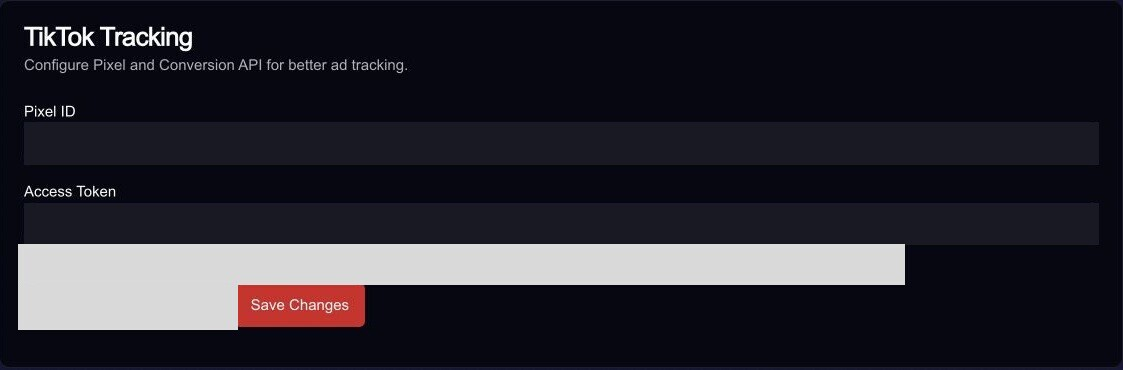
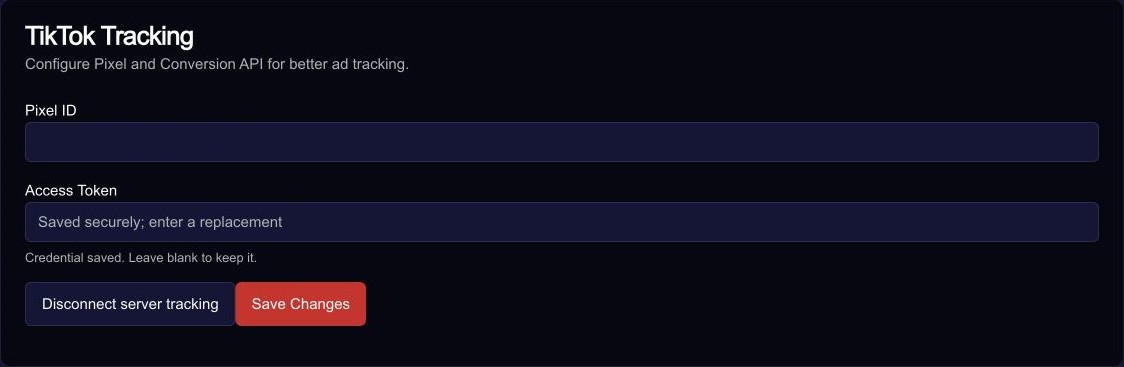
fix: address ad guide review feedback

diff --git a/apps/web/src/components/analytics/ad-platform-setup-guide.test.tsx b/apps/web/src/components/analytics/ad-platform-setup-guide.test.tsx
@@ -1,20 +1,27 @@
 import { createHash } from 'node:crypto';
 import { existsSync, readFileSync } from 'node:fs';
+import { resolve } from 'node:path';
 import { render, screen } from '@testing-library/react';
 import sharp from 'sharp';
 import { describe, expect, it } from 'vitest';
 import { AdPlatformSetupGuide } from './ad-platform-setup-guide';
 
-const reviewedAssetDigests: Record<string, string> = {
+// Digests detect changed binaries; they do not validate that a mask is present.
+const pinnedAssetDigests: Record<string, string> = {
   '/guides/ad-platforms/meta-settings.jpg':
[1 lines of base64/hex data omitted]
   '/guides/ad-platforms/tiktok-settings.jpg':
[2 lines of base64/hex data omitted]
   '/guides/ad-platforms/snapchat-pixel-settings.jpg':
[1 lines of base64/hex data omitted]
   '/guides/ad-platforms/x-connection-settings.jpg':
[2 lines of base64/hex data omitted]
 };
+const webRoot = resolve(__dirname, '../../../');
+const checklistPath = resolve(
+  webRoot,
+  '../../docs/guides/ad-tracking-screenshot-review.md'
+);
 
 describe('AdPlatformSetupGuide', () => {
   it.each([
@@ -67,13 +74,13 @@ describe('AdPlatformSetupGuide', () => {
         'Meta Pixel and Conversions API settings in Baci with identifiers masked',
       ],
       tiktok: [
-        'TikTok Pixel and Access Token settings in Baci with identifiers masked',
+        'TikTok Pixel and Access Token settings in Baci; the Pixel ID is masked and the token value is not shown',
       ],
       snapchat: [
         'Snapchat Pixel and optional Conversions API token fields in Baci; the Pixel ID is masked and the token field is empty',
       ],
       x: [
-        'X screenshot of the optional Conversions API access token and OAuth fields in Baci; inputs are blank',
+        'X screenshot of the optional server credential fields in Baci; all input values are blank',
       ],
     };
     const screenshots = screen.queryAllByRole('img');
@@ -83,13 +90,12 @@ describe('AdPlatformSetupGuide', () => {
     for (const screenshot of screenshots) {
       const src = screenshot.getAttribute('src');
       expect(src).toBeTruthy();
-      expect(existsSync(`public${src}`)).toBe(true);
+      const assetPath = resolve(webRoot, 'public', src?.slice(1) ?? '');
+      expect(existsSync(assetPath)).toBe(true);
       expect(
-        createHash('sha256')
-          .update(readFileSync(`public${src}`))
-          .digest('hex')
-      ).toBe(reviewedAssetDigests[src ?? '']);
-      const metadata = await sharp(`public${src}`).metadata();
+        createHash('sha256').update(readFileSync(assetPath)).digest('hex')
+      ).toBe(pinnedAssetDigests[src ?? '']);
+      const metadata = await sharp(assetPath).metadata();
       expect(metadata.width).toBe(Number(screenshot.getAttribute('width')));
       expect(metadata.height).toBe(Number(screenshot.getAttribute('height')));
     }
@@ -103,7 +109,7 @@ describe('AdPlatformSetupGuide', () => {
     if (platform === 'x') {
       expect(
         screen.getByText(
-          /This screenshot shows the optional server credential fields/
+          /This cropped screenshot starts at the optional server credential fields/
         )
       ).toBeInTheDocument();
     }
@@ -111,10 +117,21 @@ describe('AdPlatformSetupGuide', () => {
     expect(screen.getByText(/create.*Pixel.*or select/i)).toBeInTheDocument();
     const distinguishingSteps: Record<typeof platform, RegExp> = {
       facebook: /Pixel Settings → Generate Access Token/,
-      tiktok: /Pixel Settings → Generate Access Token/,
+      tiktok: /Tools → Events → Connect data source → Web/,
       snapchat: /Pixel Settings under Conversions API/,
       x: /all four OAuth credentials/,
     };
     expect(screen.getByText(distinguishingSteps[platform])).toBeInTheDocument();
+  });
+
+  it('keeps the human screenshot review checklist available beside digest pins', () => {
+    expect(existsSync(checklistPath)).toBe(true);
+    const checklist = readFileSync(checklistPath, 'utf8');
+    expect(checklist).toMatch(
+      /do not determine whether an\s+image is private/i
+    );
+    for (const imagePath of Object.keys(pinnedAssetDigests)) {
+      expect(checklist).toContain(imagePath.split('/').at(-1));
+    }
   });
 });

diff --git a/apps/web/src/app/dashboard/integrations/chatgpt-ads/setup-guide.test.tsx b/apps/web/src/app/dashboard/integrations/chatgpt-ads/setup-guide.test.tsx
@@ -1,10 +1,12 @@
 import { createHash } from 'node:crypto';
 import { existsSync, readFileSync } from 'node:fs';
+import { resolve } from 'node:path';
 import { render, screen } from '@testing-library/react';
 import { expect, it } from 'vitest';
 import { ChatgptSetupGuide } from './setup-guide';
 
-const reviewedImageDigests: Record<string, string> = {
+// Digests detect unreviewed binary changes; they do not validate that a mask is present.
+const pinnedImageDigests: Record<string, string> = {
   '01-pixel-setup.png':
[1 lines of base64/hex data omitted]
   '02-successful-payment.png':
@@ -18,6 +20,13 @@ const reviewedImageDigests: Record<string, string> = {
   '06-conversion-created.png':
[1 lines of base64/hex data omitted]
 };
+const webRoot = resolve(__dirname, '../../../../../');
+const repoRoot = resolve(__dirname, '../../../../../../../');
+const screenshotDocs = resolve(repoRoot, 'docs/guides/chatgpt-ads/screenshots');
+const screenshotChecklist = resolve(
+  repoRoot,
+  'docs/guides/ad-tracking-screenshot-review.md'
+);
 
 it('provides a safe example screen and warns merchants to use their own credentials', () => {
   render(<ChatgptSetupGuide />);
@@ -27,7 +36,13 @@ it('provides a safe example screen and warns merchants to use their own credenti
     )
   ).toBeInTheDocument();
   expect(
-    screen.getByText(/do not copy another store’s ID/)
+    screen.getByText(/do not copy another store’s ID/i)
+  ).toBeInTheDocument();
+  expect(
+    screen.getByText(/browser events do not require a server key/)
+  ).toBeInTheDocument();
+  expect(
+    screen.getByText(/successful-payment server events do/i)
   ).toBeInTheDocument();
   expect(
     screen.getByText(/Never share a screenshot of the generated key/)
@@ -51,29 +66,40 @@ it('provides a safe example screen and warns merchants to use their own credenti
     .getAllByRole('img')
     .map((image) => image.getAttribute('alt'));
   expect(new Set(imageAlts).size).toBe(imageAlts.length);
+  expect(
+    screen.getByRole('img', {
+      name: 'Example order_created browser Pixel event call',
+    })
+  ).toBeInTheDocument();
   for (const src of imagePaths) {
     expect(src).toBeTruthy();
-    const assetPath = `public${src}`;
+    const filename = src?.split('/').at(-1) ?? '';
+    const assetPath = resolve(webRoot, 'public', src?.slice(1) ?? '');
     expect(existsSync(assetPath)).toBe(true);
     const digest = createHash('sha256')
       .update(readFileSync(assetPath))
       .digest('hex');
-    const filename = src?.split('/').at(-1) ?? '';
-    expect(digest).toBe(reviewedImageDigests[filename]);
+    expect(digest).toBe(pinnedImageDigests[filename]);
     expect(
       createHash('sha256')
-        .update(
-          readFileSync(`../../docs/guides/chatgpt-ads/screenshots/${filename}`)
-        )
+        .update(readFileSync(resolve(screenshotDocs, filename)))
         .digest('hex')
     ).toBe(digest);
   }
-  const docsOnlyScreenshot =
-    '../../docs/guides/chatgpt-ads/screenshots/06-conversion-created.png';
+  const docsOnlyScreenshot = resolve(
+    screenshotDocs,
+    '06-conversion-created.png'
+  );
   expect(existsSync(docsOnlyScreenshot)).toBe(true);
   expect(
     createHash('sha256').update(readFileSync(docsOnlyScreenshot)).digest('hex')
-  ).toBe(reviewedImageDigests['06-conversion-created.png']);
+  ).toBe(pinnedImageDigests['06-conversion-created.png']);
+  expect(existsSync(screenshotChecklist)).toBe(true);
+  const checklist = readFileSync(screenshotChecklist, 'utf8');
+  expect(checklist).toMatch(/do not determine whether an\s+image is private/i);
+  for (const filename of Object.keys(pinnedImageDigests)) {
+    expect(checklist).toContain(filename);
+  }
   expect(
     screen.getByRole('link', {
       name: /Official conversion setup documentation/,

diff --git a/apps/web/src/components/analytics/ad-platform-setup-guide.tsx b/apps/web/src/components/analytics/ad-platform-setup-guide.tsx
@@ -52,13 +52,13 @@ const guides: Record<AdPlatform, Guide> = {
     screenshots: [
       {
         src: '/guides/ad-platforms/tiktok-settings.jpg',
-        alt: 'TikTok Pixel and Access Token settings in Baci with identifiers masked',
-        width: 1123,
-        height: 370,
+        alt: 'TikTok Pixel and Access Token settings in Baci; the Pixel ID is masked and the token value is not shown',
+        width: 1124,
+        height: 367,
       },
     ],
     steps: [
-      'In TikTok Ads Manager, open Assets → Events → Web Events and create a Pixel, or select the website Pixel for this store.',
+      'In TikTok Ads Manager, open Tools → Events → Connect data source → Web to create a Pixel, or select the website Pixel for this store.',
       'Copy the Pixel ID from its details. For server-side events, open Pixel Settings → Generate Access Token to create or retrieve the Events API access token; this is optional for browser-only tracking.',
       'Enter the Pixel ID and, if enabling server-side events, the token in this Baci page and save. Keep the token private and do not install a duplicate pixel script.',
       'Grant Marketing consent on your storefront, then verify browser and server events separately in TikTok Events Manager.',
@@ -90,9 +90,9 @@ const guides: Record<AdPlatform, Guide> = {
     screenshots: [
       {
         src: '/guides/ad-platforms/x-connection-settings.jpg',
-        alt: 'X screenshot of the optional Conversions API access token and OAuth fields in Baci; inputs are blank',
-        width: 1165,
-        height: 535,
+        alt: 'X screenshot of the optional server credential fields in Baci; all input values are blank',
+        width: 700,
+        height: 620,
       },
     ],
     steps: [
@@ -136,13 +136,15 @@ export function AdPlatformSetupGuide({ platform }: { platform: AdPlatform }) {
             <h3 className="font-medium">Baci settings screenshots</h3>
             <p className="text-sm text-muted-foreground">
               These genuine settings screens have account identifiers and
-              credential indicators masked. Enter values from your own provider
-              account; never copy credentials from an image.
+              credential values masked. Enter values from your own provider
+              account; never copy credentials from an image. Generic saved
+              status text may remain visible, but no credential value does.
             </p>
             {platform === 'x' ? (
               <p className="text-sm text-muted-foreground">
-                This screenshot shows the optional server credential fields.
-                Enter Pixel ID and event codes in their separate fields above.
+                This cropped screenshot starts at the optional server credential
+                fields. Enter Pixel ID and event codes in their separate fields
+                above.
               </p>
             ) : null}
             {guide.screenshots.map((screenshot) => (

diff --git a/apps/web/src/app/dashboard/integrations/chatgpt-ads/setup-guide.tsx b/apps/web/src/app/dashboard/integrations/chatgpt-ads/setup-guide.tsx
@@ -32,15 +32,15 @@ const steps = [
     images: [
       {
         src: '03-pixel-event.png',
-        alt: 'Example order_created browser Pixel event call with account source masked',
+        alt: 'Example order_created browser Pixel event call',
         width: 500,
         height: 400,
       },
     ],
   },
   {
-    title: '4. Create a server key',
-    text: 'Open the Conversions API instructions, choose Create conversion key, and give it a recognizable name. Paste the secret into Baci’s Conversions API key field. Never share a screenshot of the generated key.',
+    title: '4. (Optional) Create a server key',
+    text: 'Browser events work with the Pixel ID alone. To send successful-payment server events, open the Conversions API instructions, choose Create conversion key, and give it a recognizable name. Paste the secret into Baci’s Conversions API key field. Never share a screenshot of the generated key.',
     images: [
       {
         src: '04-capi-event.png',
@@ -66,8 +66,9 @@ export function ChatgptSetupGuide() {
       <CardContent className="space-y-6">
         <p className="text-sm text-muted-foreground">
           These are genuine provider screens with account-specific values
-          masked. Use the Pixel ID and key from your own Ads Manager account; do
-          not copy another store’s ID, and keep keys private. Never share
+          masked. Use the Pixel ID from your own Ads Manager account; browser
+          events do not require a server key. Successful-payment server events
+          do. Do not copy another store’s ID, and keep keys private. Never share
           screenshots that reveal credentials.
         </p>
         {steps.map((step) => (

diff --git a/docs/guides/ad-tracking-screenshot-review.md b/docs/guides/ad-tracking-screenshot-review.md
@@ -1,0 +1,34 @@
+# Ad tracking screenshot review checklist
+
+SHA-256 pins in tests detect binary changes. They do not determine whether an
+image is private or prove that a redaction is present. Before changing a pin,
+open the changed image at full size and confirm the checks below; keep this
+checklist aligned with the images used by the merchant guides.
+
+## Baci provider settings
+
+- [ ] `meta-settings.jpg`: Pixel ID, store domain, and token state are masked.
+- [ ] `tiktok-settings.jpg`: Pixel ID is masked; the token field shows only the
+      generic saved-value notice, no token value; the full fields and Save
+      Changes control are visible.
+- [ ] `snapchat-pixel-settings.jpg`: store domain and Pixel ID are masked; the
+      optional token field is empty.
+- [ ] `x-connection-settings.jpg`: no account identity or Pixel ID is shown;
+      credential fields are blank and the crop begins at a complete field label
+      without clipping any text or form controls.
+
+## ChatGPT Ads provider screens
+
+- [ ] `01-pixel-setup.png`: Pixel ID and setup code are masked.
+- [ ] `02-successful-payment.png`: data source and attribution values are
+      masked.
+- [ ] `03-pixel-event.png`: the code example contains no account-specific
+      source value.
+- [ ] `04-capi-event.png`: the request code block is masked.
+- [ ] `05-create-capi-key.png`: account key name and character count are
+      masked; no generated key is visible.
+- [ ] `06-conversion-created.png`: account-specific fields are masked.
+
+For every image, check that masking covers only the identifying or credential
+value, leaves its field label legible, and does not hide unrelated instructions
+or controls. Never update a digest solely to make a changed image pass tests.

diff --git a/docs/guides/chatgpt-ads/README.md b/docs/guides/chatgpt-ads/README.md
@@ -43,9 +43,11 @@ after enabling the Baci integration.
 
 ## 4. Configure server conversions
 
-The **Conversions API** tab shows the server request. The CAPI key belongs on
-the server. Never put it in theme HTML, client JavaScript, a public environment
-variable, a support screenshot, or a chat message.
+Browser events work with the Pixel ID alone. A server key is optional and is
+needed only for successful-payment server events. The **Conversions API** tab
+shows the server request. The CAPI key belongs on the server. Never put it in
+theme HTML, client JavaScript, a public environment variable, a support
+screenshot, or a chat message.
 
 ![Server conversion request with placeholders only](screenshots/04-capi-event.png)
 
@@ -88,3 +90,4 @@ The screenshots represent the captured UI, which can change. For payload and
 SDK behavior, follow the current developer references.
 
 [Local validation and remaining production rollout](validation.md).
+[Screenshot review checklist](../ad-tracking-screenshot-review.md).
